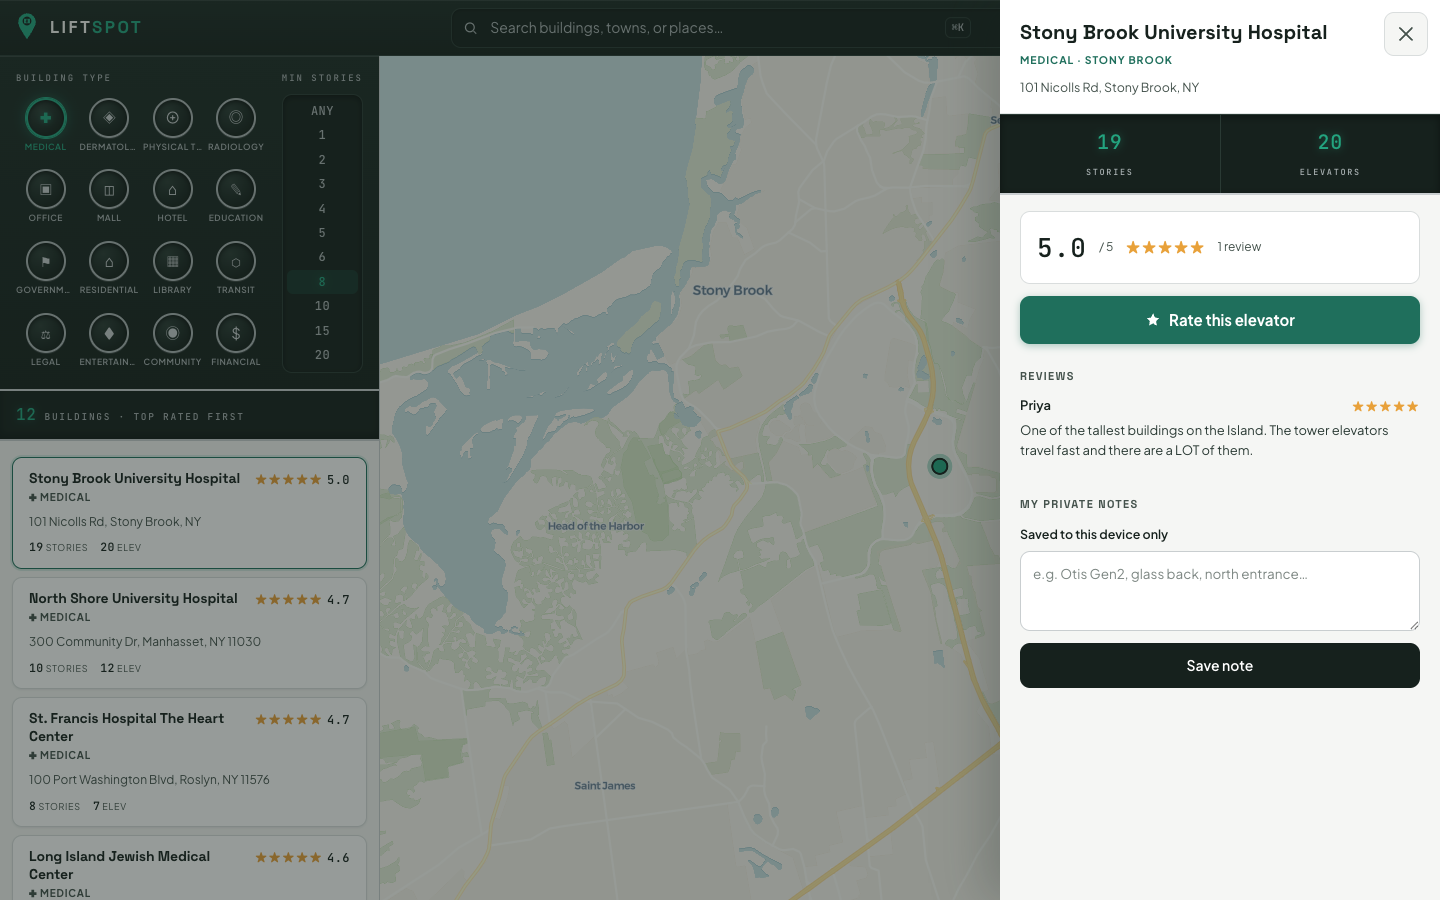
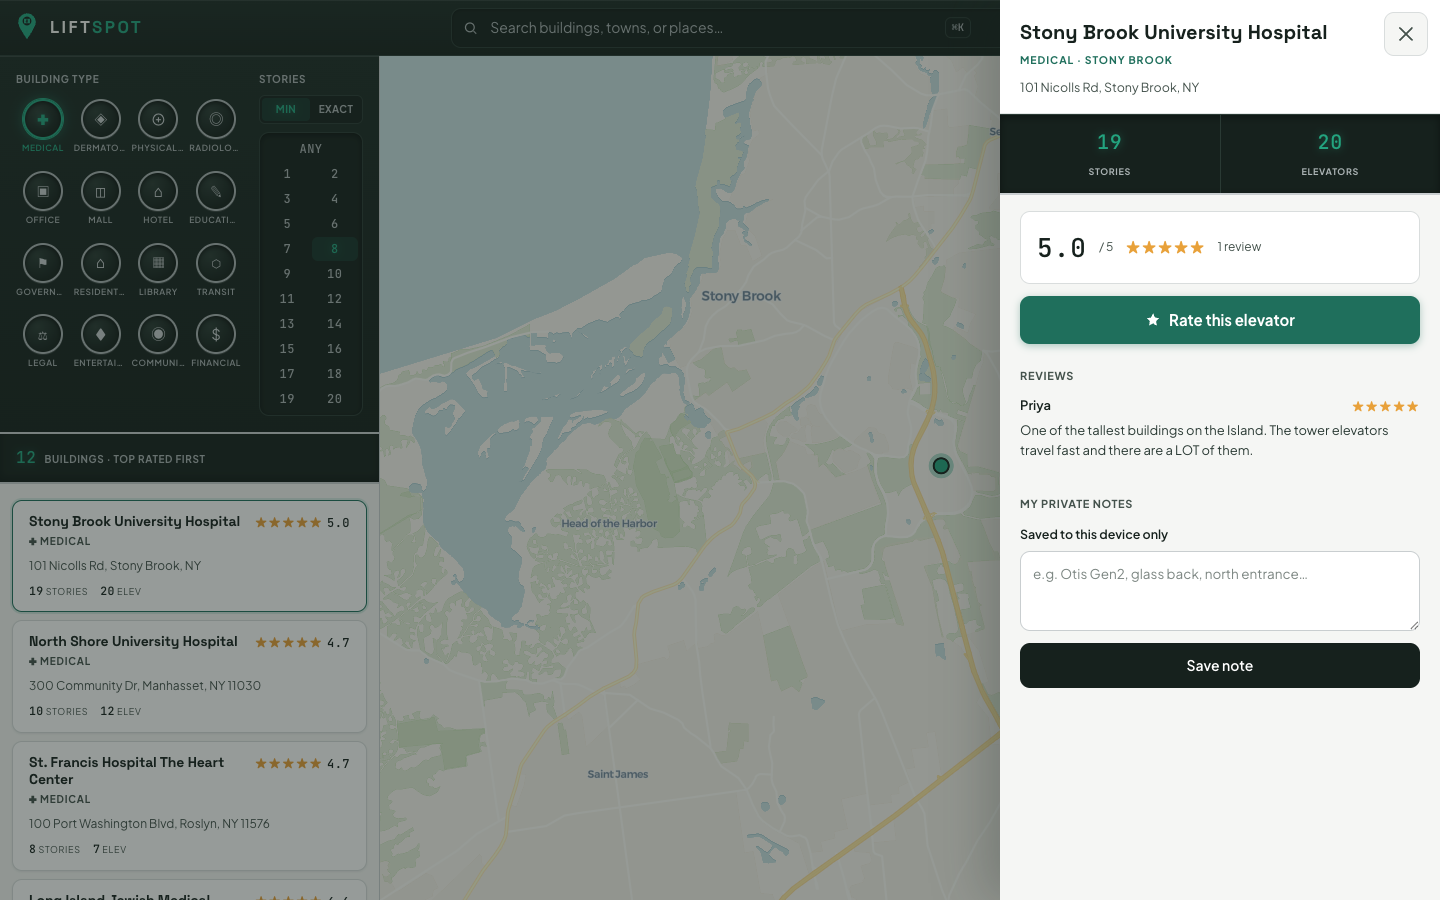
Story filter: every floor 1-20 with min/exact mode; calmer labels; earlier cluster break-up
- Floor strip is now a true cab panel: ANY + every floor to the data max,
  two columns, with a MIN/EXACT toggle (wires up the existing exactStories
  filter that never had UI)
- Clusters: radius 46->34, max zoom 13->11 — individual buildings appear
  from town-level zoom; smaller discs
- All uppercase micro-labels use the body face; display face only in the
  wordmark and building names

diff --git a/css/app.css b/css/app.css
@@ -185,8 +185,8 @@ button { font: inherit; color: inherit; }
   box-shadow: inset 0 1px 0 rgba(201, 206, 208, 0.14);
 }
 .cab-label {
-  font-family: var(--font-display); font-weight: 600;
-  font-size: 10px; letter-spacing: 0.14em;
+  font-family: var(--font-body); font-weight: 700;
+  font-size: 10px; letter-spacing: 0.07em;
   color: var(--steel-400); text-transform: uppercase;
   margin-bottom: var(--s2);
 }
@@ -237,24 +237,53 @@ button { font: inherit; color: inherit; }
 .pbtn[aria-pressed="true"] .lbl { color: var(--led); }
 
 /* signature 2 — floor indicator strip */
-.floors { flex-shrink: 0; display: flex; flex-direction: column; }
+.floors { flex-shrink: 0; display: flex; flex-direction: column; width: 104px; }
+.floor-mode {
+  display: flex; gap: 2px;
+  background: var(--ink-900);
+  border: 1px solid var(--ink-700);
+  border-radius: var(--r-sm);
+  padding: 2px;
+  margin-bottom: var(--s2);
+}
+.floor-mode button {
+  flex: 1;
+  font-family: var(--font-body); font-size: 10px; font-weight: 700;
+  text-transform: uppercase; letter-spacing: 0.04em;
+  color: var(--steel-400);
+  background: none; border: none; border-radius: 4px;
+  padding: 4px 2px; cursor: pointer;
+  transition: color var(--t-fast) var(--ease), background var(--t-fast) var(--ease);
+}
+.floor-mode button:hover { color: var(--paper); }
+.floor-mode button[aria-checked="true"] {
+  color: var(--led);
+  background: var(--led-soft);
+  text-shadow: 0 0 8px var(--led-glow);
+}
 .floor-strip {
-  display: flex; flex-direction: column;
+  display: grid;
+  grid-template-columns: repeat(2, 1fr);
+  gap: 1px;
   background: var(--ink-900);
   border: 1px solid var(--ink-700);
   border-radius: var(--r-md);
   padding: var(--s1);
   box-shadow: inset 0 2px 6px rgba(0, 0, 0, 0.5);
   flex: 1;
+  overflow-y: auto;
+  max-height: 296px;
+  scrollbar-width: thin; scrollbar-color: var(--ink-700) transparent;
 }
 .fbtn {
   font-family: var(--font-led); font-size: 12px; font-weight: 500;
   color: var(--steel-400);
   background: none; border: none; border-radius: var(--r-sm);
-  min-width: 44px; padding: 3px 8px; flex: 1;
+  min-height: 24px; padding: 2px 4px;
   cursor: pointer; text-align: center;
   transition: color var(--t-fast) var(--ease), background var(--t-fast) var(--ease);
 }
+.fbtn[data-n="0"] { grid-column: 1 / -1; }
 .fbtn:hover { color: var(--paper); background: var(--ink-700); }
 .fbtn[aria-checked="true"] {
   color: var(--led);
@@ -303,8 +332,8 @@ button { font: inherit; color: inherit; }
 }
 .readout .n { font-size: 16px; }
 .readout .cap {
-  font-family: var(--font-display); font-weight: 600;
-  font-size: 10px; letter-spacing: 0.12em;
+  font-family: var(--font-body); font-weight: 700;
+  font-size: 10px; letter-spacing: 0.06em;
   text-transform: uppercase; color: var(--steel-400);
 }
 .list {
@@ -499,8 +528,8 @@ button { font: inherit; color: inherit; }
 .datastrip .cell:first-child { border-left: none; }
 .datastrip .cell .v { font-size: 20px; display: block; }
 .datastrip .cell .k {
-  font-family: var(--font-display); font-weight: 600;
-  font-size: 9px; letter-spacing: 0.14em;
+  font-family: var(--font-body); font-weight: 700;
+  font-size: 9px; letter-spacing: 0.07em;
   text-transform: uppercase; color: var(--steel-400);
 }
 
@@ -515,9 +544,9 @@ button { font: inherit; color: inherit; }
 .sec { margin-top: var(--s6); }
 .sec:first-child { margin-top: 0; }
 .sec h4 {
-  font-family: var(--font-display);
-  font-size: 11px; text-transform: uppercase; letter-spacing: 0.12em;
-  color: var(--ink-600); margin-bottom: var(--s3); font-weight: 600;
+  font-family: var(--font-body);
+  font-size: 11px; text-transform: uppercase; letter-spacing: 0.06em;
+  color: var(--ink-600); margin-bottom: var(--s3); font-weight: 700;
 }
 
 /* rating block + primary CTA */
@@ -694,9 +723,12 @@ textarea::placeholder { color: var(--ink-600); opacity: 0.7; }
     display: grid !important; place-items: center;
   }
   .plate-grid { grid-template-columns: repeat(4, 1fr); }
-  .floors { margin-top: var(--s3); }
-  .floor-strip { flex-direction: row; overflow-x: auto; }
-  .fbtn { min-height: 44px; }
+  .floors { margin-top: var(--s3); width: auto; }
+  .floor-strip {
+    display: flex; flex-direction: row; overflow-x: auto;
+    max-height: none;
+  }
+  .fbtn { min-height: 44px; min-width: 44px; flex-shrink: 0; }
 
   .filters-fab {
     display: flex; align-items: center; gap: var(--s2);

diff --git a/js/ui.js b/js/ui.js
@@ -1,6 +1,6 @@
 /* Entry: filters (button plate + floor indicator), list, states, toasts, wiring. */
 
-import { TYPES, TYPE_ICON, FLOOR_STOPS, state, BUILDINGS, filtered, stars, loadBuildings } from './data.js';
+import { TYPES, TYPE_ICON, maxStories, state, BUILDINGS, filtered, stars, loadBuildings } from './data.js';
 import { initMap, setMapData, setActive, setHover, flyToBuilding, map, setLocationMarker, removeLocationMarker, setUserMarker } from './map.js';
 import { initSearch, closePalette, clearToTextMode } from './search.js';
 import { initDrawer, openBuilding, showDrawer } from './drawer.js';
@@ -182,15 +182,25 @@ function syncPlate() {
   syncFab();
 }
 
+let floorStops = [0];
+
+function floorAria(n) {
+  if (n === 0) return 'Any number of stories';
+  return state.exactStories ? `Exactly ${n} stories` : `${n} or more stories`;
+}
+
+/* Every floor 1..max, like a real cab button panel. Rebuilt once data arrives. */
 function buildFloors() {
   const strip = $('floorStrip');
-  FLOOR_STOPS.forEach(n => {
+  strip.innerHTML = '';
+  floorStops = [0, ...Array.from({ length: maxStories() }, (_, i) => i + 1)];
+  floorStops.forEach(n => {
     const btn = document.createElement('button');
     btn.className = 'fbtn led';
     btn.type = 'button';
     btn.setAttribute('role', 'radio');
     btn.setAttribute('aria-checked', String(n === state.minStories));
-    btn.setAttribute('aria-label', n === 0 ? 'Any number of stories' : `${n} or more stories`);
+    btn.setAttribute('aria-label', floorAria(n));
     btn.dataset.n = n;
     btn.textContent = n === 0 ? 'ANY' : String(n);
     btn.addEventListener('click', () => {
@@ -200,13 +210,13 @@ function buildFloors() {
       renderList();
     });
     btn.addEventListener('keydown', e => {
-      const idx = FLOOR_STOPS.indexOf(state.minStories);
+      const idx = floorStops.indexOf(state.minStories);
       let next = null;
-      if (e.key === 'ArrowDown' || e.key === 'ArrowRight') next = Math.min(FLOOR_STOPS.length - 1, idx + 1);
+      if (e.key === 'ArrowDown' || e.key === 'ArrowRight') next = Math.min(floorStops.length - 1, idx + 1);
       if (e.key === 'ArrowUp' || e.key === 'ArrowLeft') next = Math.max(0, idx - 1);
       if (next != null) {
         e.preventDefault();
-        state.minStories = FLOOR_STOPS[next];
+        state.minStories = floorStops[next];
         syncFloors();
         renderList();
         $('floorStrip').querySelector(`[data-n="${state.minStories}"]`)?.focus();
@@ -214,14 +224,28 @@ function buildFloors() {
     });
     strip.appendChild(btn);
   });
+  syncFloors();
 }
 
 function syncFloors() {
   document.querySelectorAll('.fbtn').forEach(b => {
     const checked = +b.dataset.n === state.minStories;
     b.setAttribute('aria-checked', String(checked));
+    b.setAttribute('aria-label', floorAria(+b.dataset.n));
     b.tabIndex = checked || (+b.dataset.n === 0 && state.minStories === 0) ? 0 : -1;
   });
+  $('modeMin').setAttribute('aria-checked', String(!state.exactStories));
+  $('modeExact').setAttribute('aria-checked', String(state.exactStories));
+}
+
+function initFloorMode() {
+  const set = exact => {
+    state.exactStories = exact;
+    syncFloors();
+    renderList();
+  };
+  $('modeMin').addEventListener('click', () => set(false));
+  $('modeExact').addEventListener('click', () => set(true));
 }
 
 function syncFab() {
@@ -277,6 +301,7 @@ async function load() {
     $('countCap').textContent = 'connection error';
     return;
   }
+  buildFloors();
   renderList();
 }
 
@@ -330,7 +355,8 @@ function initSheet() {
 /* ── boot ── */
 function boot() {
   buildPlate();
-  buildFloors();
+  buildFloors();   // default 1–20; rebuilt with the real max once data loads
+  initFloorMode();
   initSheet();
 
   try {

diff --git a/js/map.js b/js/map.js
@@ -28,8 +28,9 @@ export function initMap({ pinClick, pinHover }) {
       data: { type: 'FeatureCollection', features: [] },
       promoteId: 'id',
       cluster: true,
-      clusterRadius: 46,
-      clusterMaxZoom: 13,
+      clusterRadius: 34,
+      clusterMaxZoom: 11, // individual buildings from town-level zoom up
+
     });
 
     /* Clusters: ink discs with a steel ring — big elevator buttons. */
@@ -38,7 +39,7 @@ export function initMap({ pinClick, pinHover }) {
       filter: ['has', 'point_count'],
       paint: {
         'circle-color': '#16211d',
-        'circle-radius': ['step', ['get', 'point_count'], 14, 10, 18, 50, 23, 150, 28],
+        'circle-radius': ['step', ['get', 'point_count'], 12, 10, 16, 50, 21, 150, 26],
         'circle-stroke-width': 2,
         'circle-stroke-color': '#c9ced0',
       },

diff --git a/index.html b/index.html
@@ -59,7 +59,11 @@
         <div class="plate-grid" id="typePlate" role="group" aria-labelledby="plateLabel"></div>
       </div>
       <div class="floors">
-        <div class="cab-label" id="floorLabel">Min stories</div>
+        <div class="cab-label" id="floorLabel">Stories</div>
+        <div class="floor-mode" role="radiogroup" aria-label="Story filter mode">
+          <button type="button" id="modeMin" role="radio" aria-checked="true">Min</button>
+          <button type="button" id="modeExact" role="radio" aria-checked="false">Exact</button>
+        </div>
         <div class="floor-strip" id="floorStrip" role="radiogroup" aria-labelledby="floorLabel"></div>
       </div>
     </div>

diff --git a/js/data.js b/js/data.js
@@ -11,7 +11,7 @@ export const TYPES = ['Medical', 'Dermatology', 'Physical Therapy', 'Radiology',
 
 export const TYPE_ICON = { Medical: '✚', Dermatology: '◈', 'Physical Therapy': '⊕', Radiology: '◎', Office: '▣', Mall: '◫', Hotel: '⌂', Education: '✎', Government: '⚑', Residential: '⌂', Library: '▦', Transit: '⬡', Legal: '⚖', Entertainment: '♦', Community: '◉', Financial: '$' };
 
-export const FLOOR_STOPS = [0, 1, 2, 3, 4, 5, 6, 8, 10, 15, 20];
+export const maxStories = () => BUILDINGS.reduce((m, b) => Math.max(m, b.stories), 20);
 
 export let BUILDINGS = [];
 
